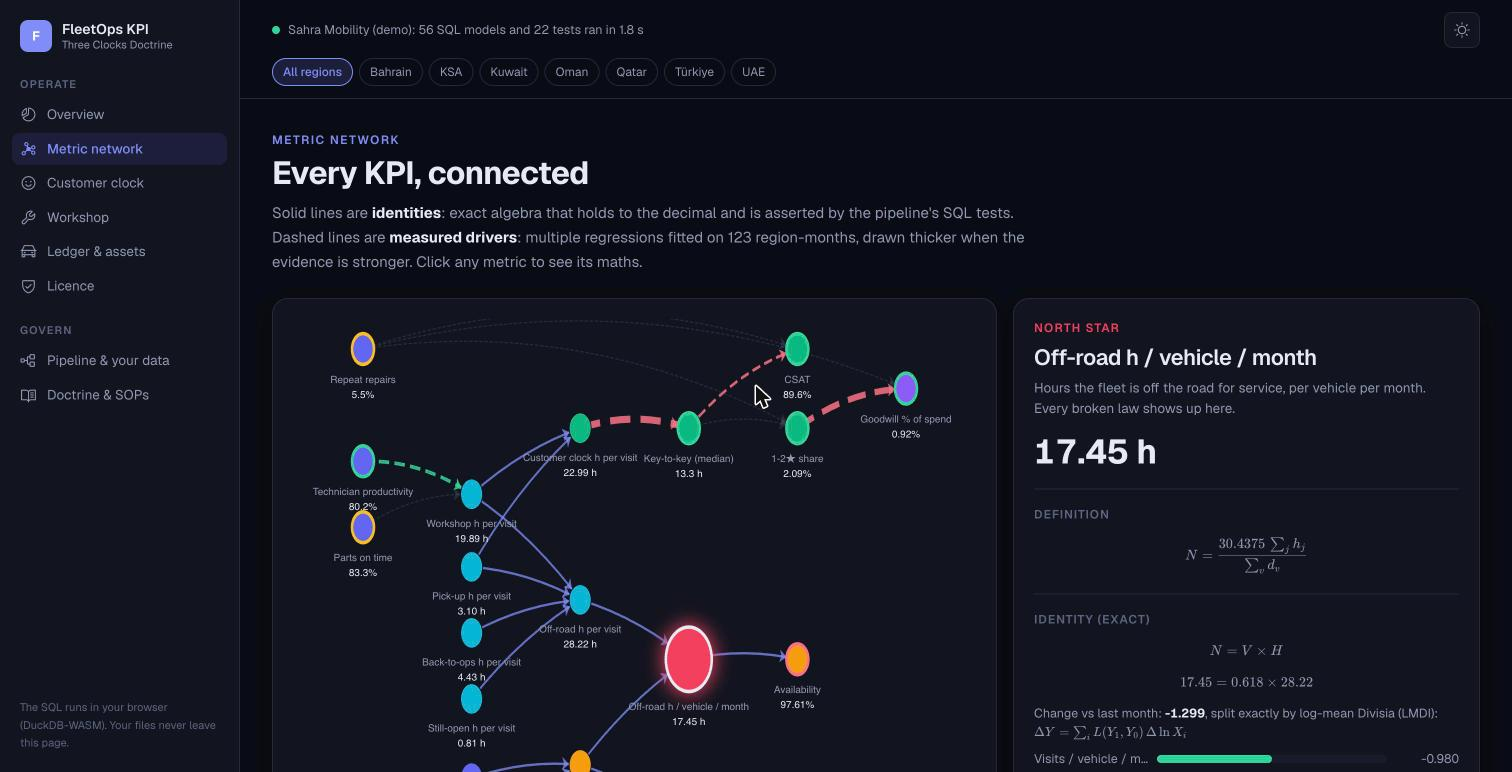
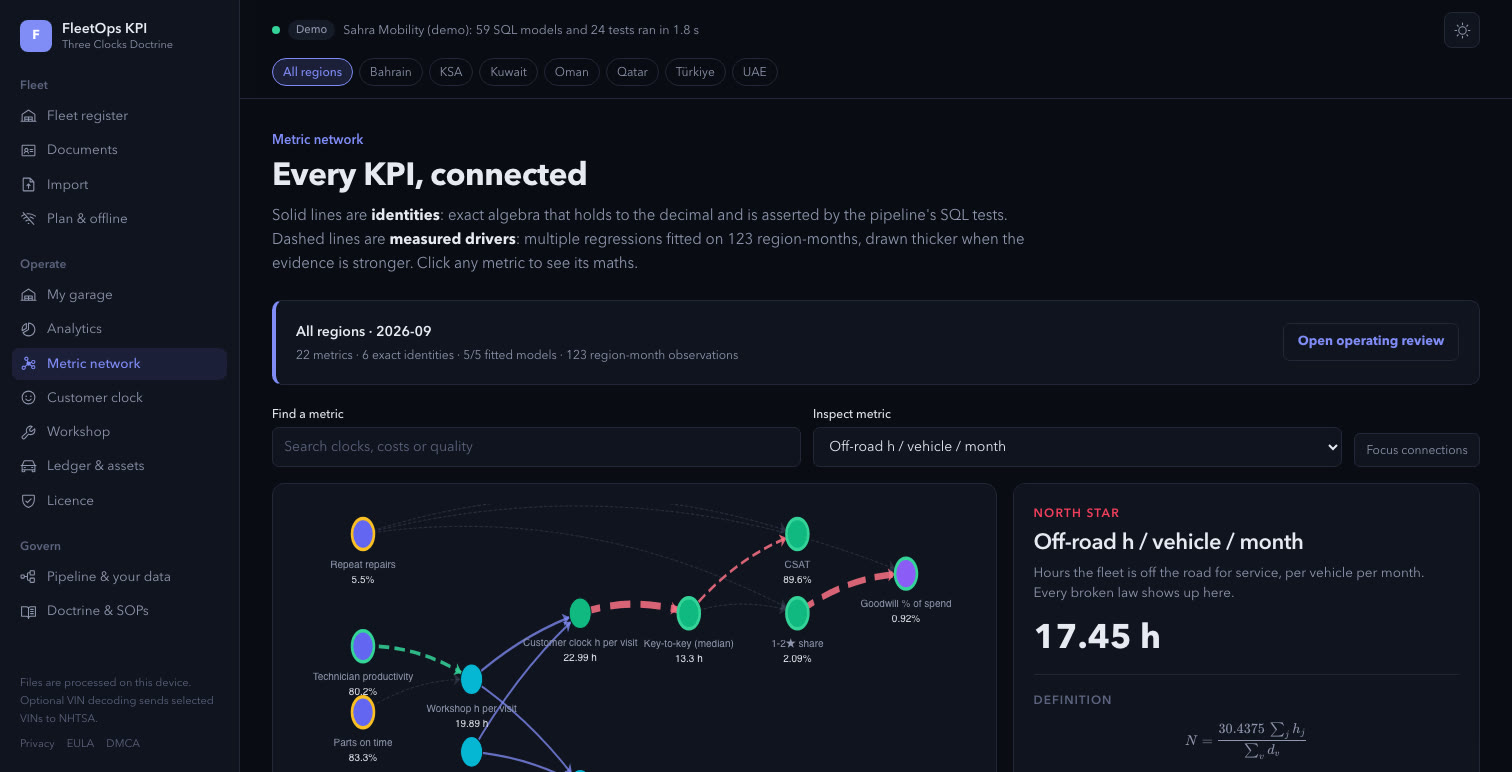
docs: new README screenshots and demo GIF showing the garage, vehicle checklist, analytics and metric network

diff --git a/README.md b/README.md
@@ -24,15 +24,19 @@ No install, no server, no upload: DuckDB-WASM runs the 59 SQL models and 24 test
 The sample fleet has an expired registration, an insurance renewal due, a broken VIN and a missing VIN; the scanned
 card renews the expired one.
 
-![Import a vehicle list, read the register, scan a registration card and watch the vehicle come back into service](docs/demo.gif)
+![The garage home page, a vehicle's road checklist, importing a vehicle list, the fleet register and scanning a registration card](docs/demo.gif)
 
-![Overview](docs/web-overview.jpg)
+![The visual garage: every vehicle grouped by what is holding it back](docs/web-garage.jpg)
 
 ## The visual garage
 
 The home dashboard groups vehicles into Road ready, Repair bays, Renewal desk, Accident intake, Dispatch review and Safety checks. Open a car for recorded repair milestones, registration and insurance stages, source blockers, a release checklist, a named owner and a target return date.
 
+![A vehicle's road checklist, recorded repair milestones and registration and insurance stages](docs/web-garage-vehicle.jpg)
+
 Report an accident to hold the vehicle and track assessment, repair, quality checks and dispatch review. The alert inbox includes paging, type filters and read status. Recovery missions and handover XP reward completed work; points cannot bypass an expired document, unresolved repair or evidence gap. The existing KPI dashboard is available under **Analytics**.
+
+![Analytics: the KPI dashboard](docs/web-overview.jpg)
 
 Garage actions for your fleet use the same device-local Workspace and optional passphrase encryption. Demo actions are isolated practice in tab memory. Notifications update from imported evidence and in-app incident reports; there is no automatic accident detection or external alert service. Current handovers recheck document dates, source freshness, vehicle-level usage coverage and all release requirements. See [garage workflow](docs/GARAGE.md).
 
